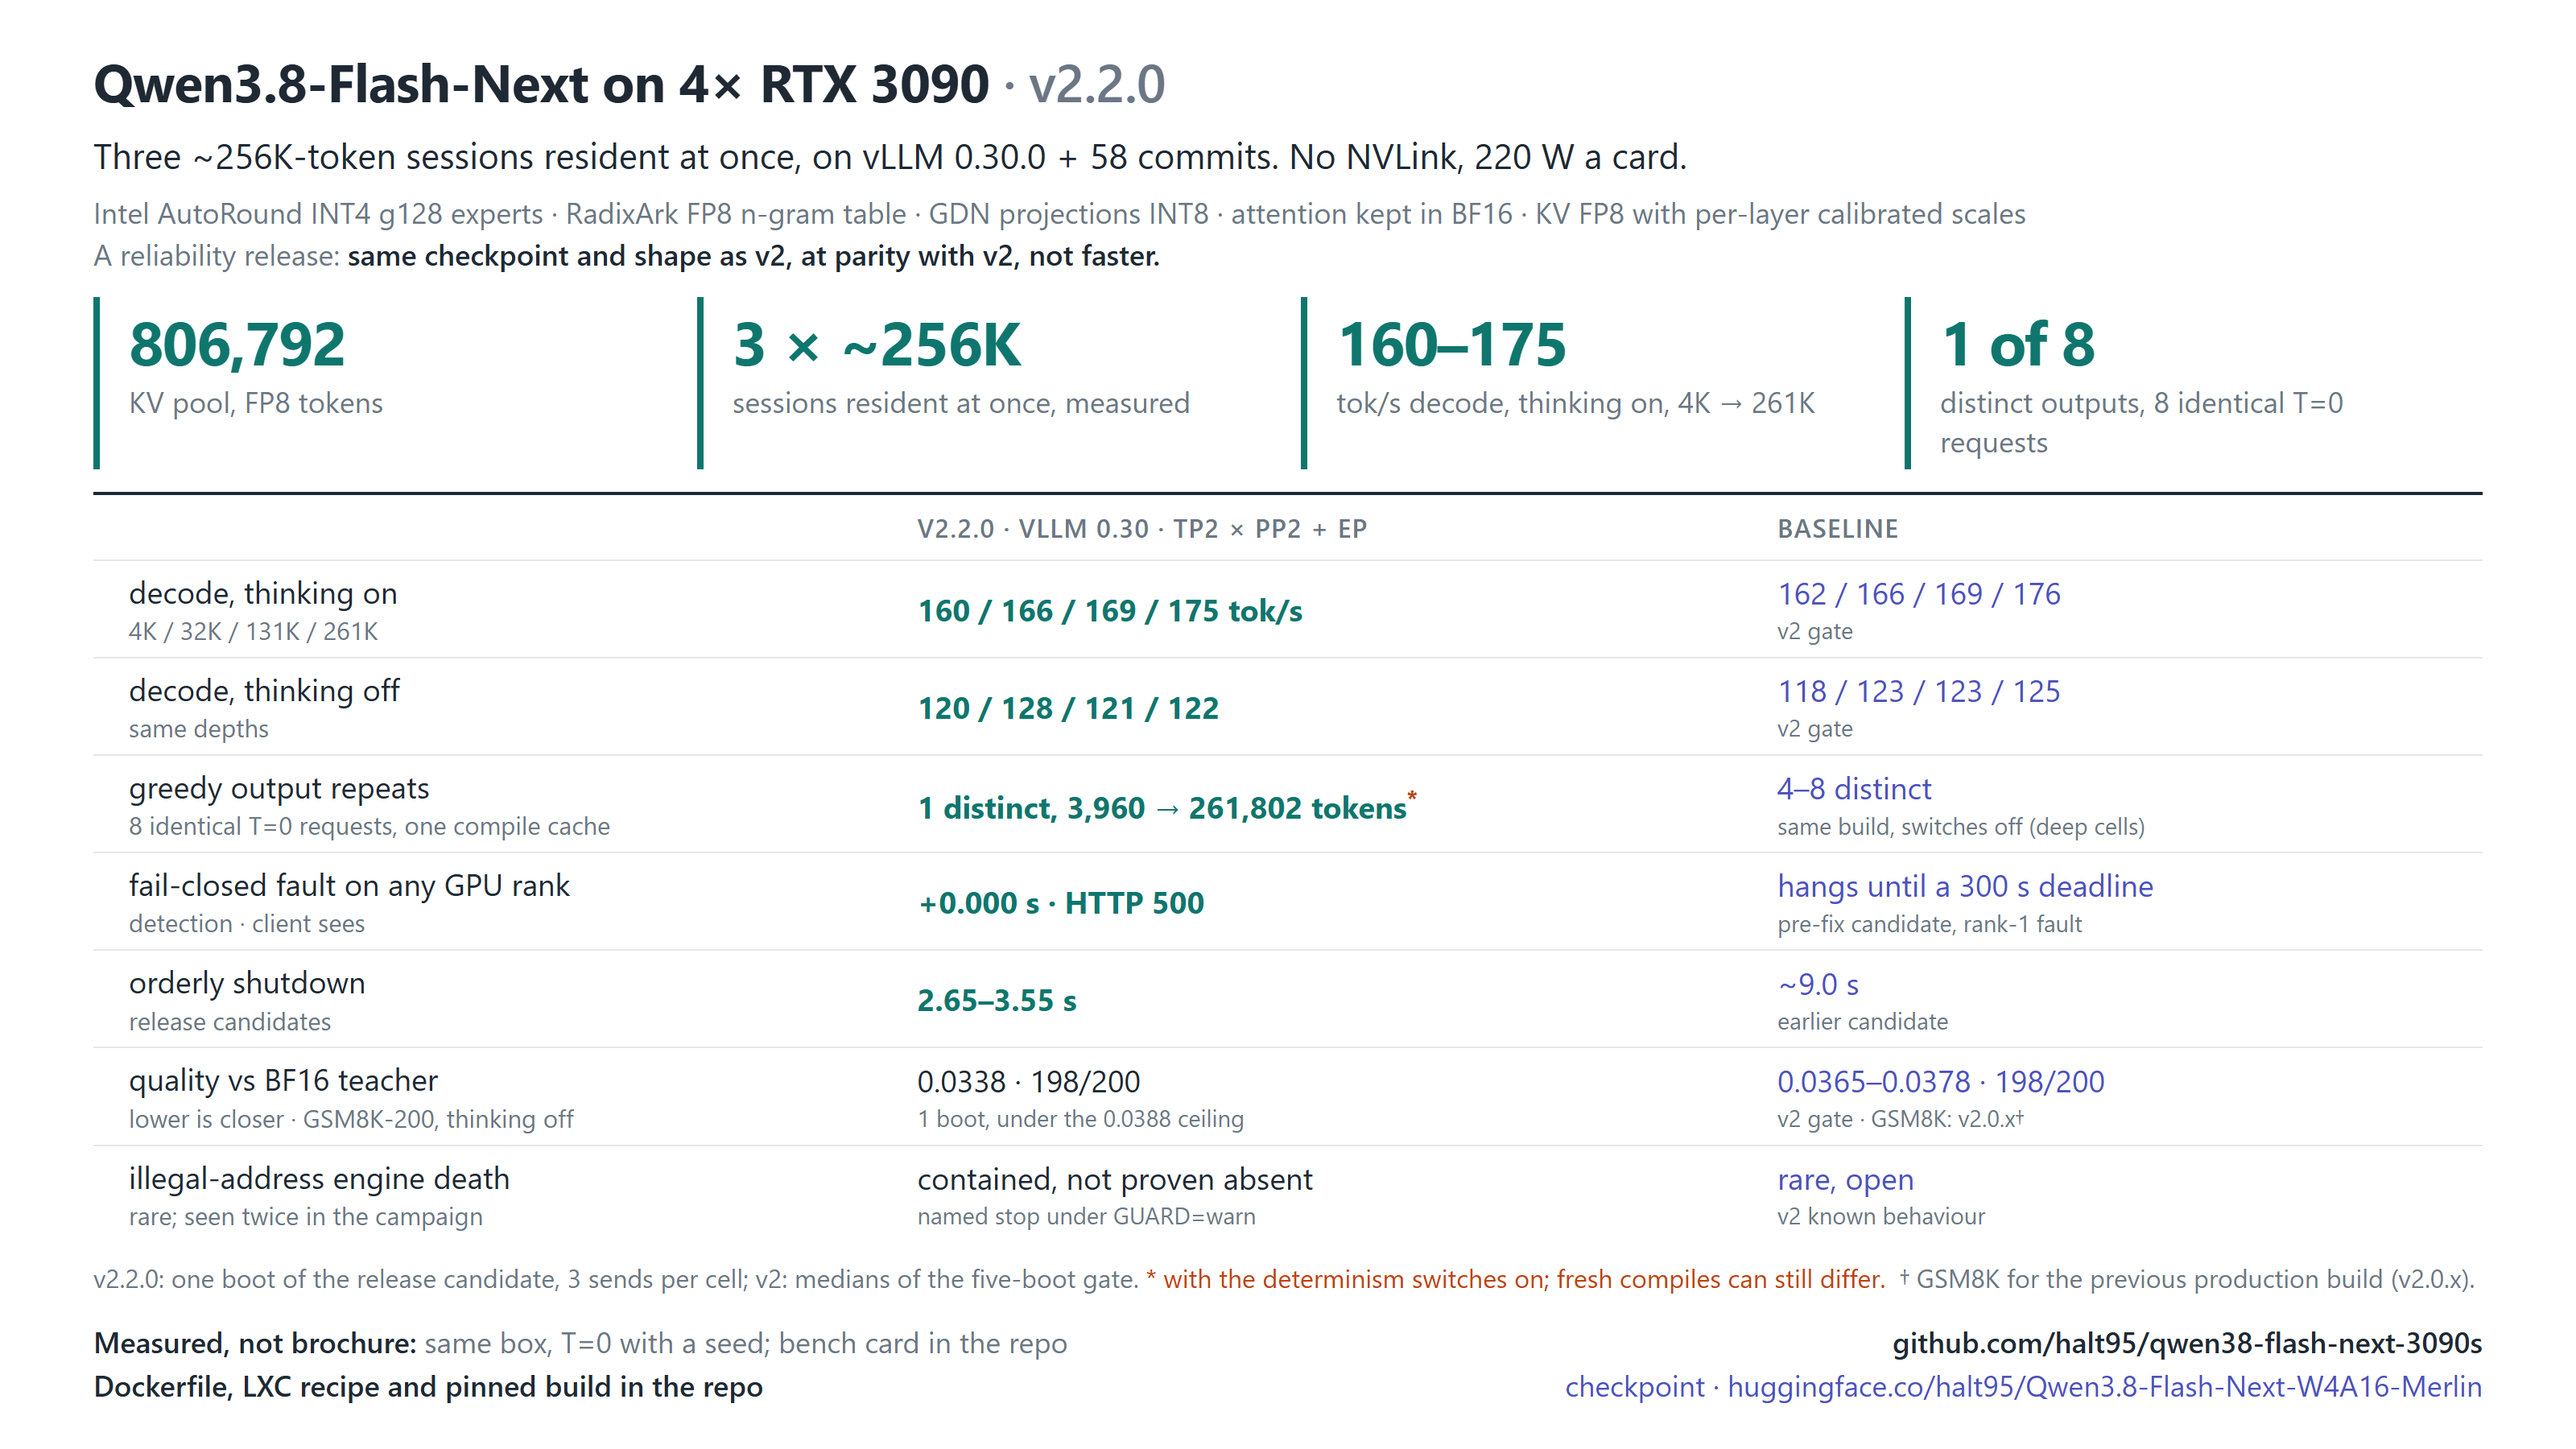
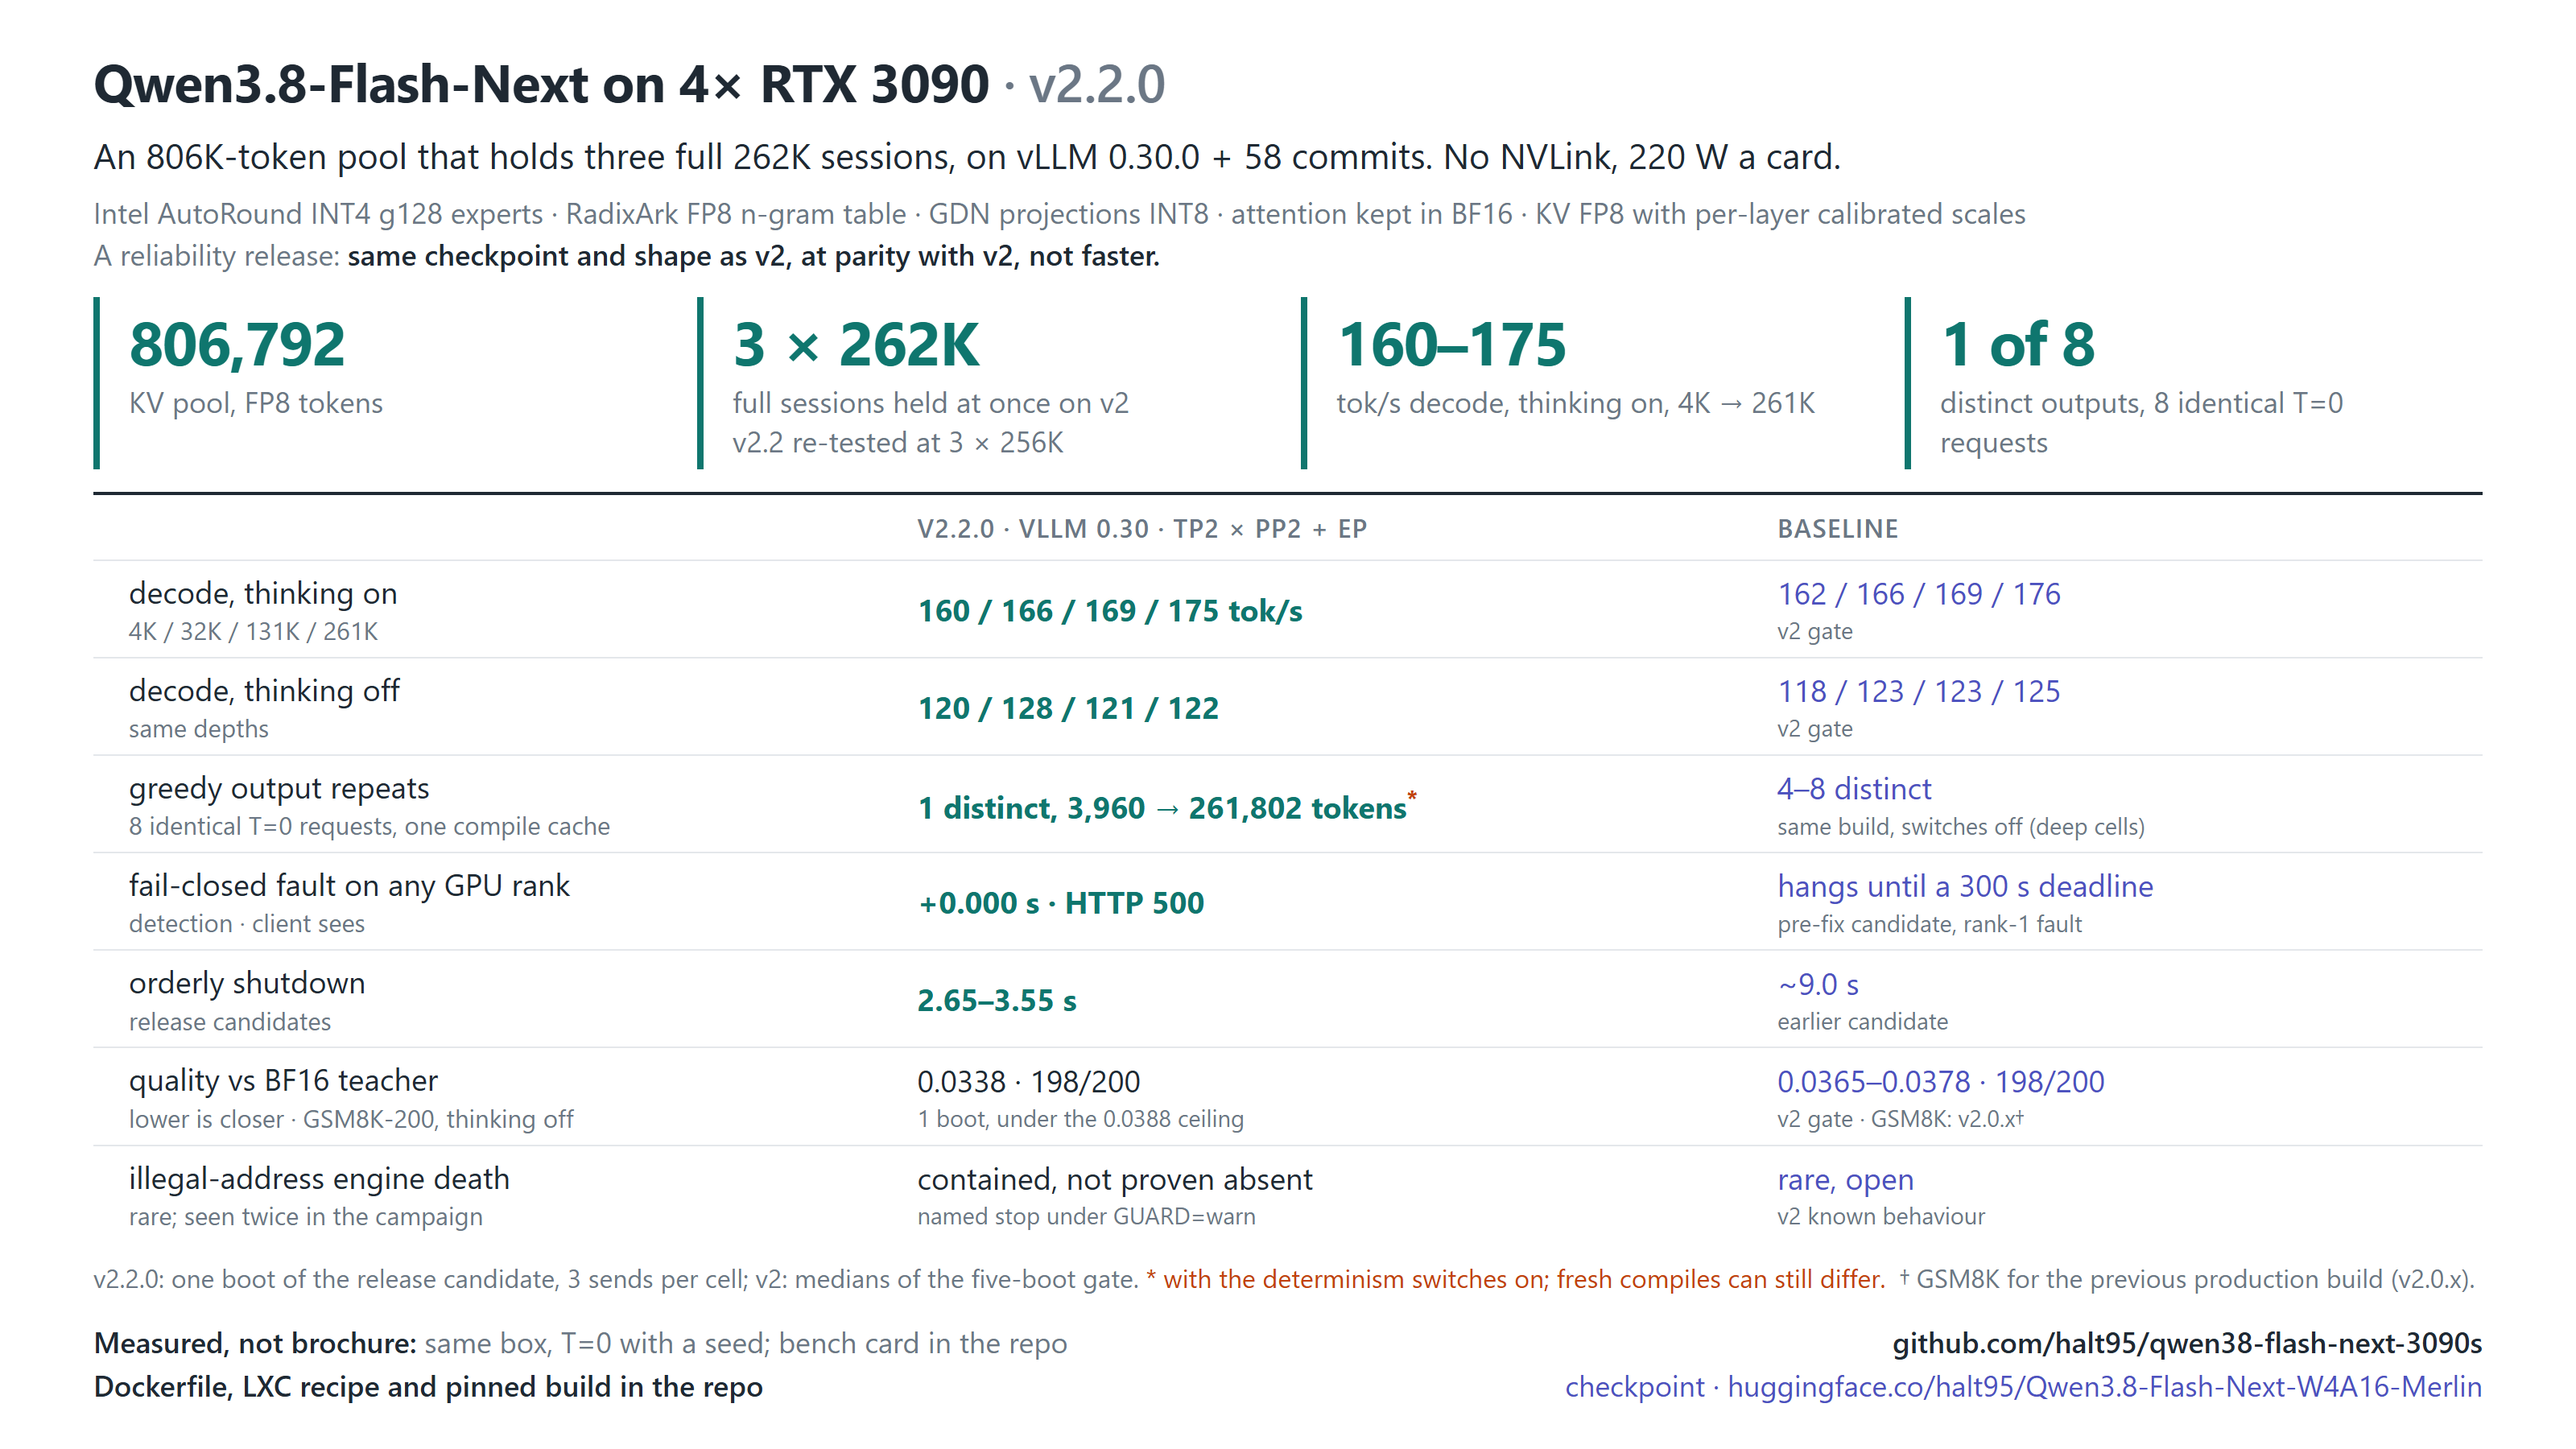
Docs: restore the measured three full 262K sessions (v2), note the v2.2 re-test at 3 x 256K

Changed region(s): [[0.0312, 0.0933, 0.7188, 0.1244], [0.2812, 0.2178, 0.4375, 0.3111]]

diff --git a/README.md b/README.md
@@ -3,7 +3,7 @@
 Qwen3.8-Flash-Next (125B MoE, ~6B activated per token, plus a 51B n-gram embedding table and a one-layer MTP
 head of about 2.6B parameters by the config's shapes; Gated DeltaNet linear attention, 512 experts, vision tower) served with vLLM
 at its **full 262,144-token context** on four consumer Ampere cards: an **806,792-token** FP8 KV pool (3.08 full
-262,144-token contexts by arithmetic; three ~256K-token sessions measured resident at once), TP2 × PP2 + expert
+262,144-token contexts; three full 262,144-token sessions measured resident at once on v2, re-tested at 3 × 256K on v2.2), TP2 × PP2 + expert
 parallel, MTP K=3. It is the daily model behind a
 [hermes](https://github.com/NousResearch/hermes-agent) agent. The current release, **v2.2.0**, runs the same shape on
 vLLM 0.30.0 (the public `v0.30.0` tag plus 58 commits); it is a reliability release, at parity with v2, not faster.
@@ -544,10 +544,10 @@ relative to TP4 at the same weights (the layout diagram under [How it works](#ho
 - The 4.1e9 pin is the highest that boots with a complete clean row set (measured on the qualification boots); 24/24
   layer partitions and higher pins fail on the tightest card (3.8e9 was the ceiling before the host-resident embeddings).
 
-The capacity row of the v2 gate held three ~256K-token sessions resident at once, peaking at 302 of 317 blocks
-(about 95 % of the pool), three-way qualifying interval 8.41 s; the v2.2 release candidate held three ~256K-token
-sessions at the same 302-of-317-block peak. Three full 262,144-token contexts (786,432 tokens) fit the 806,792-token pool
-by arithmetic.
+The capacity row of the v2 gate held three full 262,144-token sessions (261,120-token prompts plus 1,024 generated
+tokens each, as reported by the server) resident at once, peaking at 302 of 317 blocks (about 95 % of the pool),
+three-way qualifying interval 8.41 s; the v2.2 release candidate was re-tested with three 256,000-token prompts at the
+same 302-of-317-block peak, with no preemption. Three full contexts are 786,432 tokens of the 806,792-token pool.
 
 ### Host-resident embeddings inside the cudagraph
 

diff --git a/docs/history.md b/docs/history.md
@@ -15,8 +15,7 @@ parallel 2 × pipeline parallel 2** with expert parallel, the FP8 n-gram table s
 **host-mapped, fail-closed pull transport**, and, the piece that is entirely ours, **the engine's token-embedding copies
 for both the target model and the MTP drafter moved out of VRAM into pinned host memory**, read by a device-mapped
 lookup that runs inside the captured cudagraph. The KV pool goes from 342,912 tokens (1.31 full-context requests) to
-**806,792 tokens: three ~256K-token sessions measured resident at once** (three full 262,144-token contexts fit by
-arithmetic), thinking-on single-stream decode at parity with the TP4 lane
+**806,792 tokens: three full 262,144-token sessions measured resident at once**, thinking-on single-stream decode at parity with the TP4 lane
 (thinking-off at 4K measured 5 % below it in the v2 gate; a later re-test put it at parity, see Known behaviours),
 prefill 10–26 % faster. The v2-versus-v1 table below comes from the pre-registered two-arm gate that qualified v2
 ([`benchmarks/2026-09-17/BENCH-CARD.md`](../benchmarks/2026-09-17/BENCH-CARD.md)); v2.0.1 was requalified against those
@@ -28,7 +27,7 @@ campaign's close records, which are not published.
 | | **v2** | v1 TP4 build (same gate, same box; † see the note under the table) |
 |---|---|---|
 | shape | TP2 × PP2 + expert parallel, MTP K=3 | TP4 + EP, MTP K=3 |
-| KV pool, FP8 tokens, whole box | **806,792** (3.08 × a full-context request; three ~256K-token sessions resident, measured at a peak of about 95 % of the pool) | 342,912 (1.31 ×) |
+| KV pool, FP8 tokens, whole box | **806,792** (3.08 × a full-context request; three full 262,144-token sessions resident, measured at a peak of about 95 % of the pool) | 342,912 (1.31 ×) |
 | context per request | 262,144 | 262,144 |
 | concurrent sequences admitted (`--max-num-seqs`, configured; the shapes listed were measured resident) | **8** (3 × 262K, 1 × 262K + 3 × 131K, 5 × 131K, 8 × 65K, 8 × 32K) | 2 |
 | decode, single stream, thinking on, 4K / 32K / 131K / 261K prompt | **162 / 166 / 169 / 176** tok/s (medians of 5 boots) | 163 / 165 / 172 / 170† |

diff --git a/release/v2.2/PACKAGE-MANIFEST.md b/release/v2.2/PACKAGE-MANIFEST.md
@@ -26,7 +26,7 @@ cannot hash itself.
 
 | file | sha256 |
 |---|---|
[5 lines of base64/hex data omitted]
@@ -35,9 +35,9 @@ cannot hash itself.
[11 lines of base64/hex data omitted]
